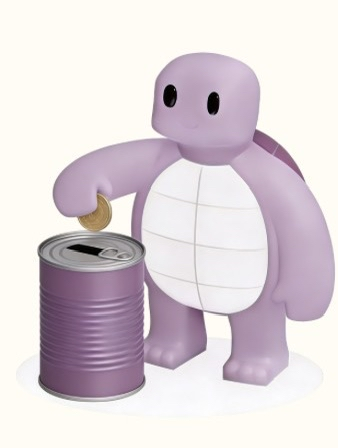
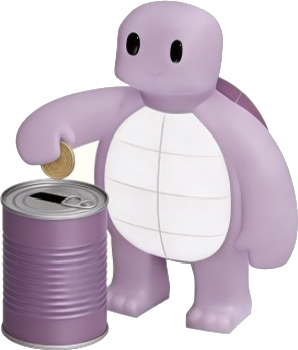
Detoure la mascotte tortue: fond creme transparent + autocrop
- Suppression du fond creme des 5 PNG de la tortue par remplissage depuis les
  bords (preserve le ventre blanc et les accessoires tenus) + bord adouci + autocrop
- Rend la mascotte propre sur l'accueil, l'ecran de fin et l'image de bilan
  (plus de rectangle blanc)
- sw v8 pour rafraichir le cache des images

diff --git a/sw.js b/sw.js
@@ -1,5 +1,5 @@
 /* Service worker — cache hors-ligne pour « Président·e du Peuple » */
-const CACHE = "ppp2027-v7";
+const CACHE = "ppp2027-v8";
 const ASSETS = [
   "./",
   "./index.html",
